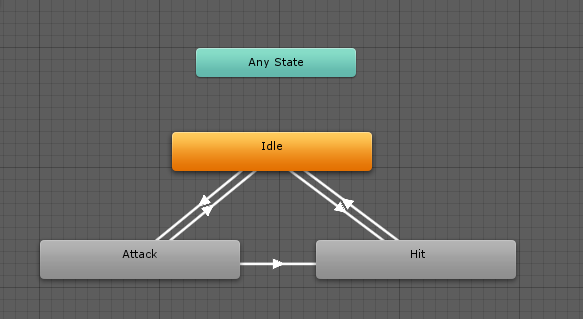
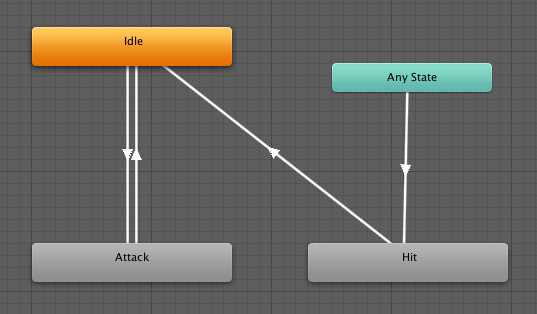
To "who's the boss?"

Changed region(s): [[0.0596, 0.086, 0.9534, 0.9172], [0.7449, 0.8025, 0.7747, 0.8312], [0.3575, 0.2866, 0.3873, 0.3153]]

diff --git a/tutorials/2d-game-unity/animations-2/index.md b/tutorials/2d-game-unity/animations-2/index.md
@@ -77,7 +77,7 @@ In this image, we have created a link between two states. In order to animate th
 
 We will focus a bit more on transitions in a moment. For now, let's look at the three different types of states.
 
-### Default state
+### 1. Default state
 
 The _orange state_ is the default one: the initial state when the game is launched.
 
@@ -87,7 +87,7 @@ In this case, the "Idle" state is the default one (if it's not, right click and 
 
 That means that when the game is started, the "Boss" object will automatically play the "Idle" animation (indefinitely if "Loop Time" is enabled in the animation "Inspector" — as it should be for this tutorial).
 
-### "Any State"
+### 2. "Any State"
 
 The _green state_, called "Any State", is a special case.
 
@@ -117,13 +117,13 @@ The solution is to use "Any State":
 
 With this state machine, any state can transition to a "Jump" state. Perfect, no?
 
-### Normal state
+### 3. Normal state
 
 The _gray states_ are the normal ones, holding zero or one animation.
 
 [ ![State][state_normal] ][state_normal]
 
-<br />On the bottom left corner of the "Animator" view, you can find a parameters list. These parameters are used for the conditions of the transitions. More on that below.
+<br /><br />On the bottom left corner of the "Animator" view, you can find a parameters list. These parameters are used for the conditions of the transitions. More on that below.
 
 [ ![Parameters][parameters] ][parameters]
 
@@ -139,93 +139,104 @@ _(Contrary to the image above, it should be empty currently)_
 
 ## Adding parameters
 
-A parameter is a value or a trigger for our state machine. Later we will use their values in the conditions of the transitions.
+A parameter is a value or a trigger for our state machine. Later, we will use these in the conditions of our transitions.
 
-Parameters have multiple types:
+A parameter has 4 types available:
 
 [ ![Parameters types][parameters_types]][parameters_types]
 
-- Int: simple integer number
-- Float: simple float number
-- Bool: true/false value
-- Trigger: true for a frame then false (raised only once per call in the code)
+- `Int` — simple integer number.
+- `Float` — simple float number.
+- `Bool` — `true` or `false` value.
+- `Trigger` — a flag which stays enabled until it is used. Then, it becomes unchecked.
 
-Numbers are interesting for special use case like speed. You may want a different animation for walk or run, but they both rely on the movement speed of the player, which could be a parameter.
+Numbers are interesting for special use cases like an horizontal or vertical speed. You may want a different animation for walk or run, but they both rely on the movement speed of the player, which could be a parameter.
 
 For our game, let's add two new parameters:
 
-1. Hit, a **trigger**
-2. Attack, a **boolean**
-
-(The editor sadly doesn't visually differentiate triggers from boolean).
+1. "Hit", a **trigger**
+2. "Attack", a **boolean**
 
 [ ![Two triggers][two_triggers]][two_triggers]
 
-Now we will directly see why we need them.
+_(Sadly, the editor doesn't differentiate triggers from booleans visually)_
+
+Now, let's see why we need them.
 
 ## Transitions
 
-A transition is a link between two states, telling the state machine how we go from one to another.
+A transition is a link between two states, telling to the state machine how we go from one to another.
 
-### Idle to Attack
+### 1. "Idle to Attack"
 
 To create a transition, make a right click on the source state.
 
-Let's do it for the "Idle to Attack" first. Right click on "Idle" state. Select "Make transition":
+Let's do it for "Idle to Attack" first:
 
-[ ![Transition menu][transition_1]][transition_1]
+1. Right click on "Idle" state.
+2. Select "Make transition":
 
-Now click on the destination state:
+  [ ![Transition menu][transition_1]][transition_1]
 
-[ ![Transition creation][transition_2]][transition_2]
+3. Now click on the destination state:
+
+  [ ![Transition creation][transition_2]][transition_2]
 
 And that's it!
 
-You can select the transition by clicking on the link. The Inspector will reveal a lot of interesting parameters, especially the entry conditions:
+You can select the transition by clicking on the link. The "Inspector" will reveal a lot of interesting parameters, especially the entry conditions:
 
 [ ![Transition parameters][transition_3]][transition_3]
 
-This is what we will edit. Change "Exit Time" (the default one, it means that the transition is true when the source animation is over) to "Attack".
+<md-note>
+_Exit Time_: The "Exit Time" condition is the default condition for a transition. It means that the transition is valid (and can be executed) when the source animation is over.
+</md-note>
+
+This is what we will edit. Change "Exit Time" for the "Attack" parameter that we have defined earlier.
 
 [ ![Transition attack][transition_attack_1]][transition_attack_1]
 
-It means "If Attack is true then play Attack animation".
+This condition means "If `Attack` is `true` then play "Attack" animation".
 
-The same way, add a transition between "Attack" and "Idle" with the condition "Attack" is false.
+The same way, add a transition between "Attack" and "Idle" with the condition "`Attack` is `false`".
 
 [ ![Transition attack end][transition_attack_2]][transition_attack_2]
 
-It means "If Attack is false then stop Attack animation and go back to Idle".
+It means "If `Attack` is `false` then stop "Attack" animation and go back to Idle".
+
+You can observe that we had to define both transitions. Otherwise, the state machine would not have come back to the "Idle" state after an attack.
 
 We will do nearly the same for the Idle animation.
 
-### Idle to Hit
+### 2. "Idle to Hit"
 
-Make two new transitions:
+Remember the "Any State" special state? We are going to use it now.
 
-- Idle to Hit, condition "Hit"
-- Hit to Idle, condition "Exit Time"
+Make two new connections:
+
+1. "Any State" to "Hit", condition `Hit`.
+2. "Hit" to "Idle", condition `Exit Time`.
 
 If the trigger "Hit" is set, we play the animation "Hit" once and go back to "Idle".
 
-#### Attack to Hit
+"Any State" is useful here because `Hit` can be triggered when the "Boss" is "Idle" or in an "Attack". Instead of defining two relations, we just use "Any State".
 
-The player can damage the boss when he's attacking. So we add a transition:
+<md-info>
+_Trigger_: As you can see, when you use a trigger, you don't have to specify a value. Indeed, a trigger is just a way to tell to the state machine "If `valid` Then transition".
+</md-info>
 
-- Attack to Hit, condition "Hit"
+### Final graph
 
-### The final graph
-
-Our animator graph now looks like this:
+Our animator graph should now look like that:
 
 [ ![Animator][transitions]][transitions]
 
-Now we need to add some code in order to get it work ingame.
+The last thing we need is some code to make it react in-game (the parameters are never triggered currently, so the animator will stay on "Idle").
 
 <md-note>
-_Animator graph_: Creating a graph in the animator is not an exact science. Depending on your code implementation, what you want to achieve or a precise sequence of actions, you may want to proceed differently. For example, in our case, we could also transition the Attack from the Any State state. With only three animations, it don't make a difference, to be fair.
-<br />
-But when you graph will grow, you will have to make some choice that will impact your game.
+_Animator graph_: Creating a graph in the animator is not an exact science. Depending on your code implementation, what you want to achieve or a precise sequence of actions, you may want to proceed differently. For example, in our case, we could also transition the "Attack" from the "Any State" state. But with only three short animations, it don't make a difference to be honest.
+<br /><br />
+When your graph will grow, you will have to make some choices that will impact your game.
 </md-note>
 
 # Who's the Boss?
